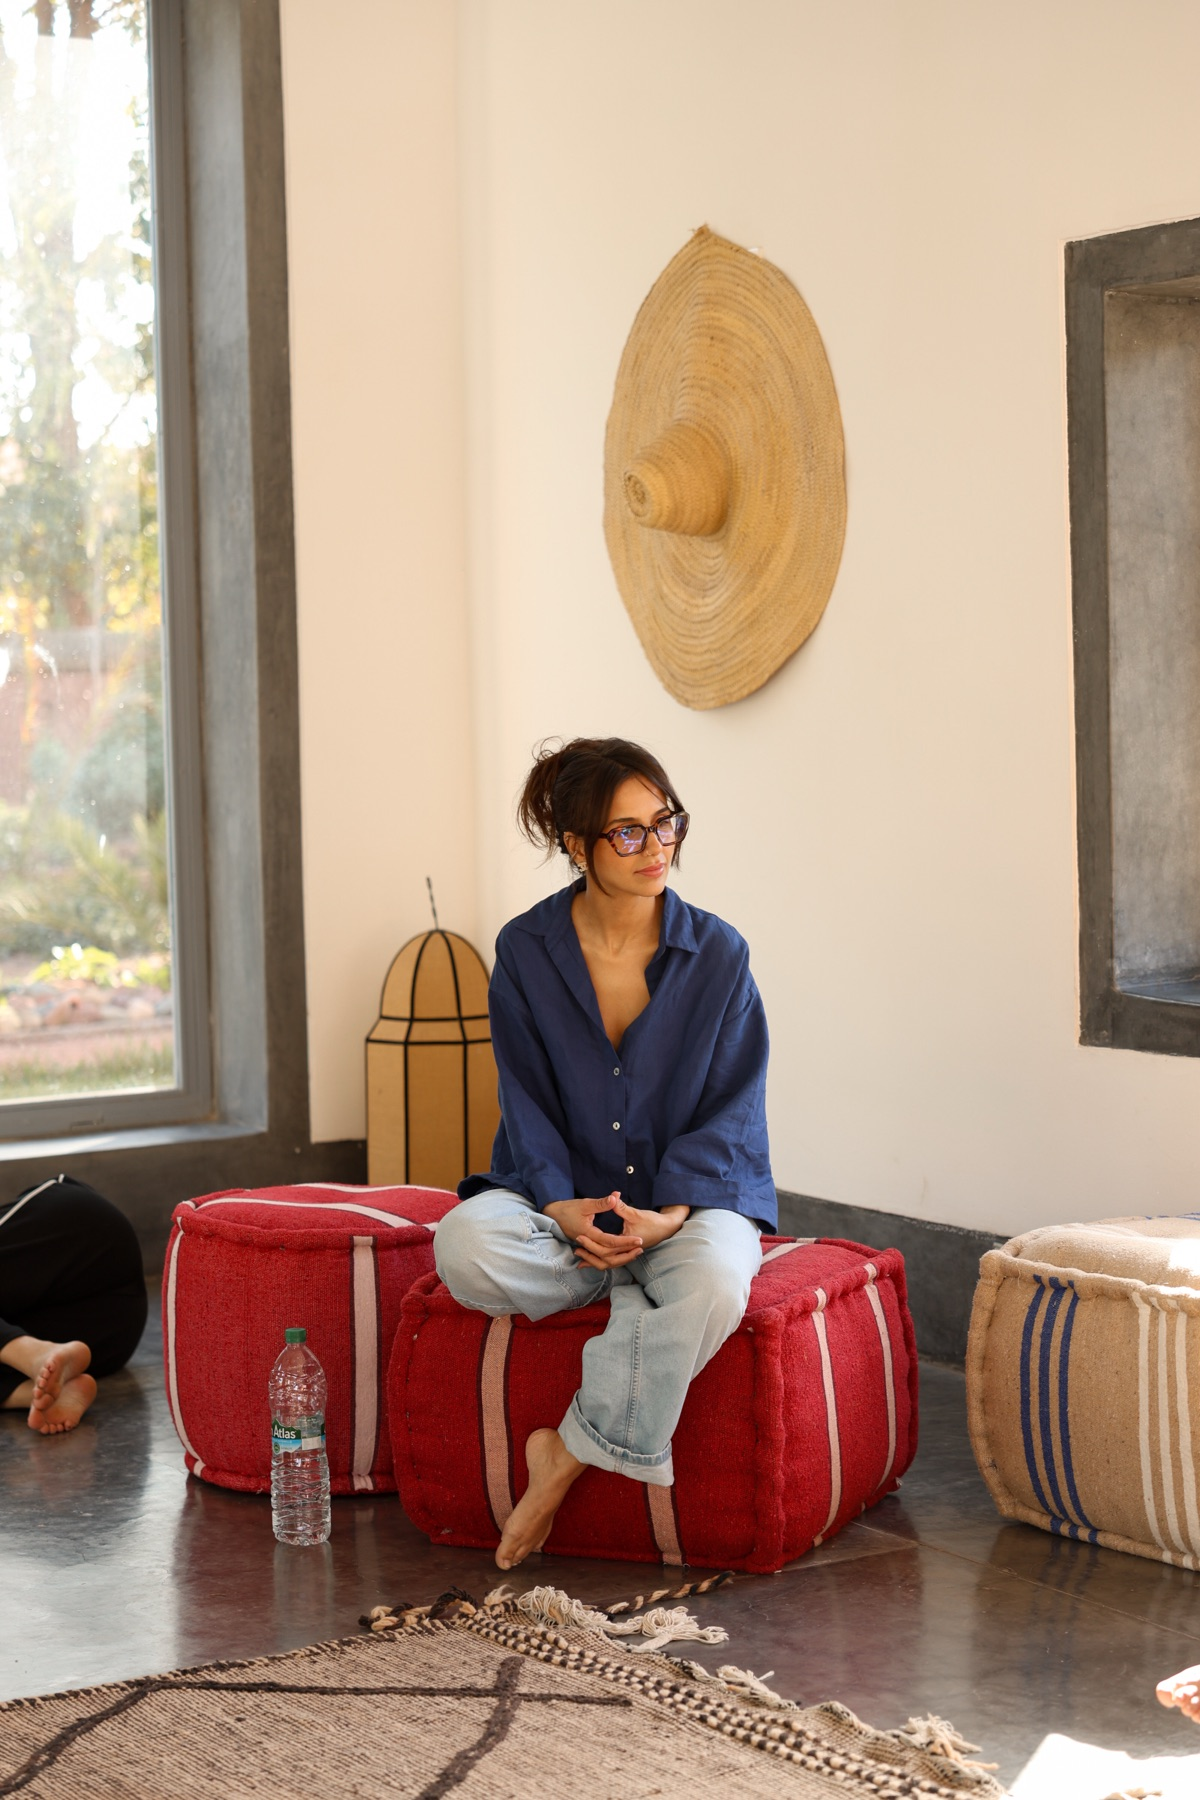
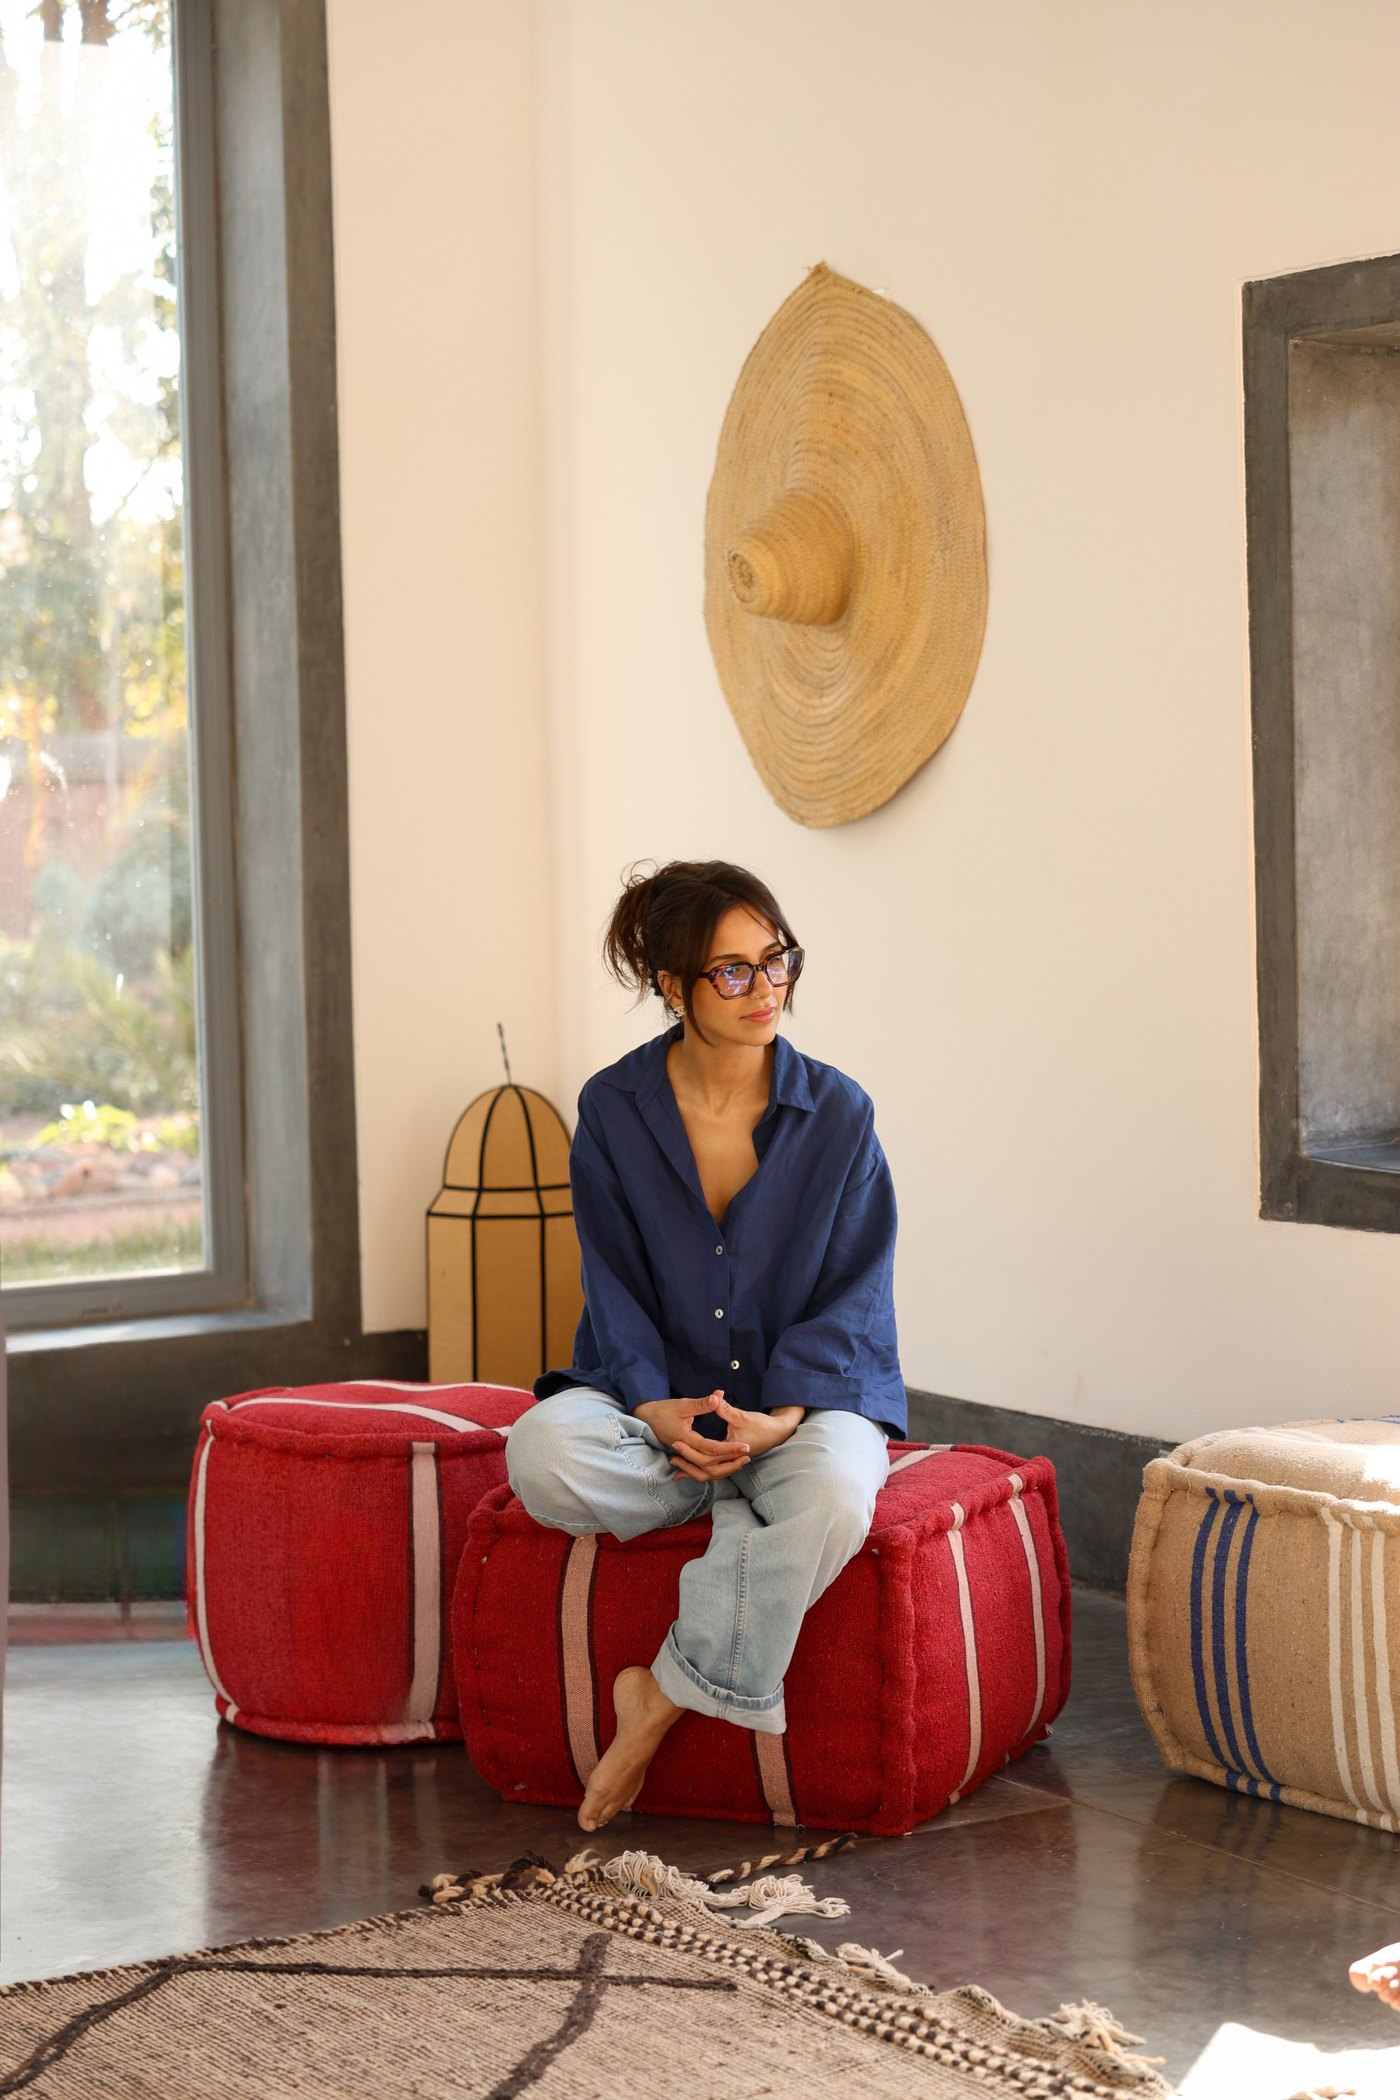
Nouvelles photos Jade (accueil, ronds accompagnantes, miniatures retraites et conferences) + vignette Manoir : titre Revenir a l'essentiel, sans prix ni lieu

Changed region(s): [[0.0, 0.6222, 0.1542, 0.8711], [0.2158, 0.7156, 0.3083, 0.8711]]

diff --git a/retraite-le-manoir.html b/retraite-le-manoir.html
@@ -193,9 +193,7 @@
         <div class="sign">Jade</div>
       </div>
       <div class="person reveal" data-d="1">
-        <!-- PHOTO À REMPLACER dès réception de « meg-anne photo » (Google Drive) :
-             <div class="av"><img src="assets/images/meg-anne.jpg" alt="Meg-Anne"></div> -->
-        <div class="av mono" aria-hidden="true">M</div>
+        <div class="av"><img src="assets/images/meg-anne.jpg" alt="Meg-Anne"></div>
         <h3>Meg-Anne</h3>
         <p>Sophrologue et coach en développement personnel, Meg-Anne accompagne celles et ceux qui souhaitent retrouver un mieux-être durable. À travers des pratiques douces et accessibles, elle crée des espaces où chacun peut ralentir, respirer, se reconnecter à son corps et retrouver ses propres ressources.</p>
         <blockquote>« Mon souhait est que chacun puisse repartir en ayant retrouvé un peu plus de douceur envers lui-même. »</blockquote>

diff --git a/index.html b/index.html
@@ -100,7 +100,7 @@
         </div>
       </article>
       <article class="ocard reveal" data-d="1">
-        <div class="im"><img src="assets/images/retraites/manoir-facade.jpg" alt="Les retraites Plus jamais sans moi"></div>
+        <div class="im"><img src="assets/images/retraites-cercle.jpg" alt="Les retraites Plus jamais sans moi"></div>
         <div class="ct">
           <div class="num">2</div>
           <h3>Les retraites « Plus jamais sans moi »</h3>
@@ -109,7 +109,7 @@
         </div>
       </article>
       <article class="ocard reveal" data-d="2">
-        <div class="im"><img src="assets/images/retraites/manoir-salle.jpg" alt="Les conférences de Jade Maa"></div>
+        <div class="im"><img src="assets/images/conferences.jpg" alt="Les conférences de Jade Maa"></div>
         <div class="ct">
           <div class="num">3</div>
           <h3>Les conférences</h3>

diff --git a/retraites.html b/retraites.html
@@ -36,9 +36,8 @@
         <img src="assets/images/retraites/manoir-facade.jpg" alt="Le Manoir Ducey">
         <div class="veil"></div>
         <div class="ct">
-          <div class="num">21 → 25 octobre 2026 · à partir de 1 190 €</div>
-          <h3>Le Manoir Ducey</h3>
-          <p>Un manoir en Normandie, à 20 min du Mont-Saint-Michel. Places limitées, femmes exclusivement.</p>
+          <h3 style="margin-top:0">Revenir à l'essentiel</h3>
+          <div class="num">Du 21 au 25 octobre 2026</div>
           <span class="go">Découvrir la retraite →</span>
         </div>
       </a>
